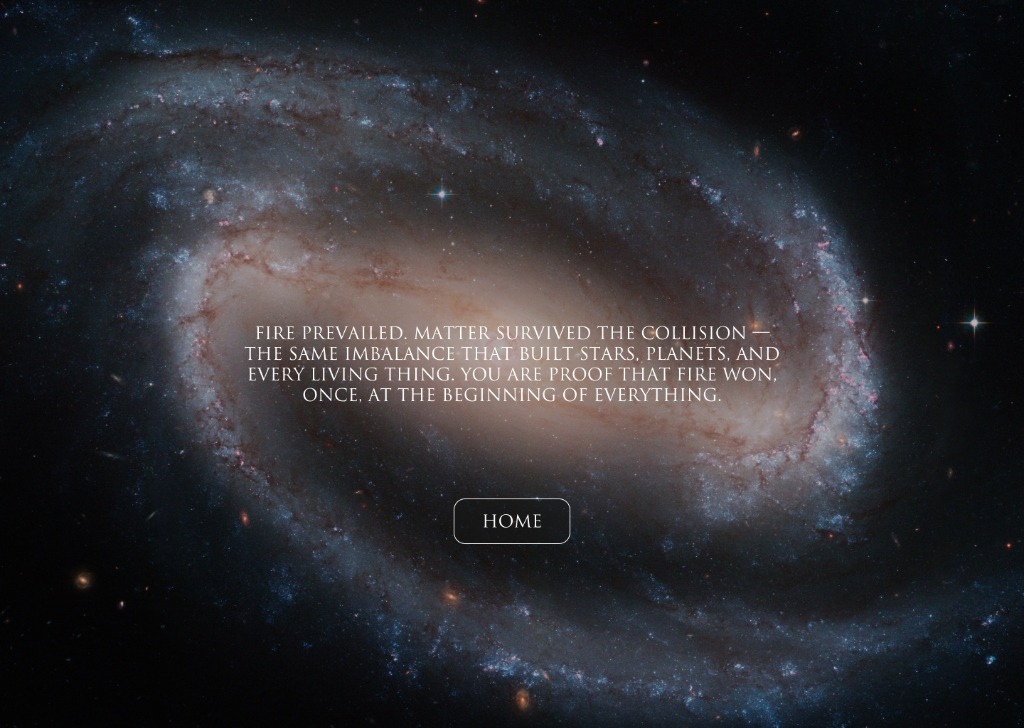
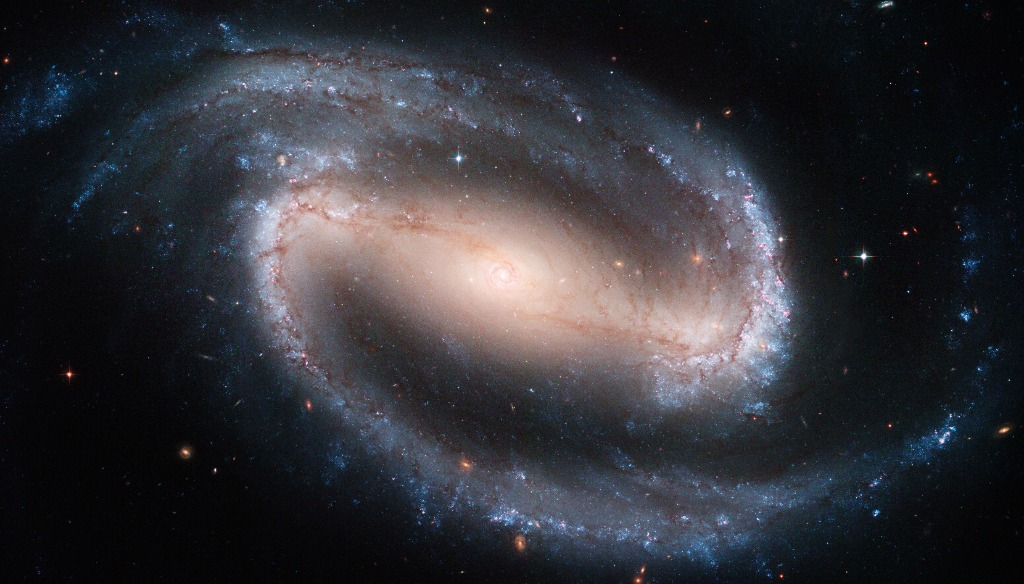
Update outcome universe background images for Ice (antimatter) and Fire (matter) with high contrast text card

diff --git a/dashboard/index.html b/dashboard/index.html
@@ -341,6 +341,13 @@
     text-transform: uppercase;
     text-shadow: 0 0 30px rgba(0, 0, 0, 0.95);
     margin-bottom: 36px;
+    background: rgba(6, 10, 16, 0.78);
+    padding: 24px 34px;
+    border-radius: 16px;
+    backdrop-filter: blur(12px);
+    -webkit-backdrop-filter: blur(12px);
+    border: 1px solid rgba(255, 255, 255, 0.15);
+    box-shadow: 0 0 30px rgba(0, 0, 0, 0.8);
   }
 
   /* Suspense Banner */
@@ -672,7 +679,7 @@ const audioController = new GotAudioController();
     outcomeStage2.style.display = 'flex'
 
     if (currentWinner === 'ice') {
-      outcomeScreen.style.backgroundImage = "url('assets/outcome_ice_galaxy.jpg?v=11')"
+      outcomeScreen.style.backgroundImage = "url('assets/outcome_ice_galaxy.jpg?v=20')"
       outcomeScreen.style.backgroundColor = 'transparent'
       outcomeStoryContent.innerHTML = 
         "ICE PREVAILED. ANTIMATTER SURVIVED INSTEAD OF<br>" +
@@ -680,7 +687,7 @@ const audioController = new GotAudioController();
         "LAW, OPPOSITE IN EVERY ATOM. SOMEWHERE IN THE<br>" +
         "MATHEMATICS, THIS WORLD EXISTS TOO."
     } else if (currentWinner === 'fire') {
-      outcomeScreen.style.backgroundImage = "url('assets/outcome_fire_galaxy.jpg?v=11')"
+      outcomeScreen.style.backgroundImage = "url('assets/outcome_fire_galaxy.jpg?v=20')"
       outcomeScreen.style.backgroundColor = 'transparent'
       outcomeStoryContent.innerHTML = 
         "FIRE PREVAILED. MATTER SURVIVED THE COLLISION &mdash;<br>" +
